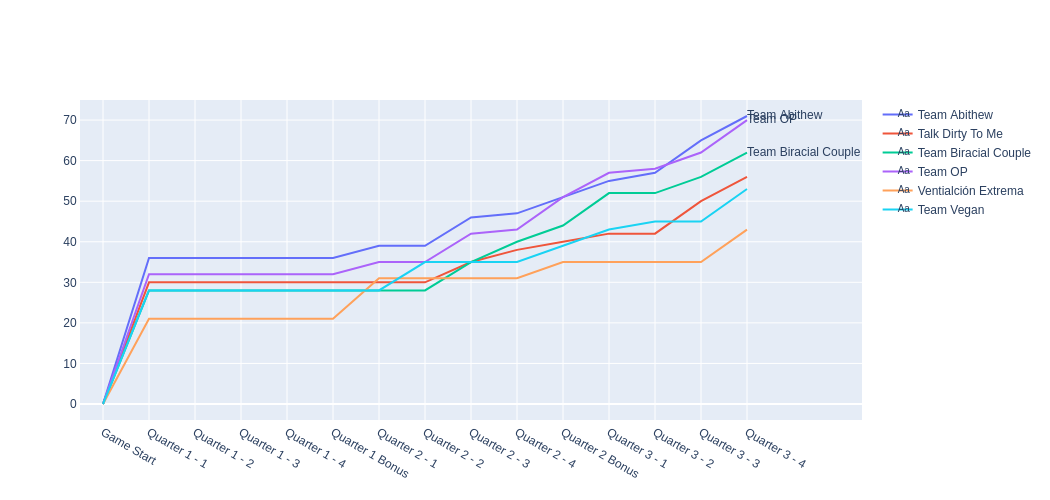
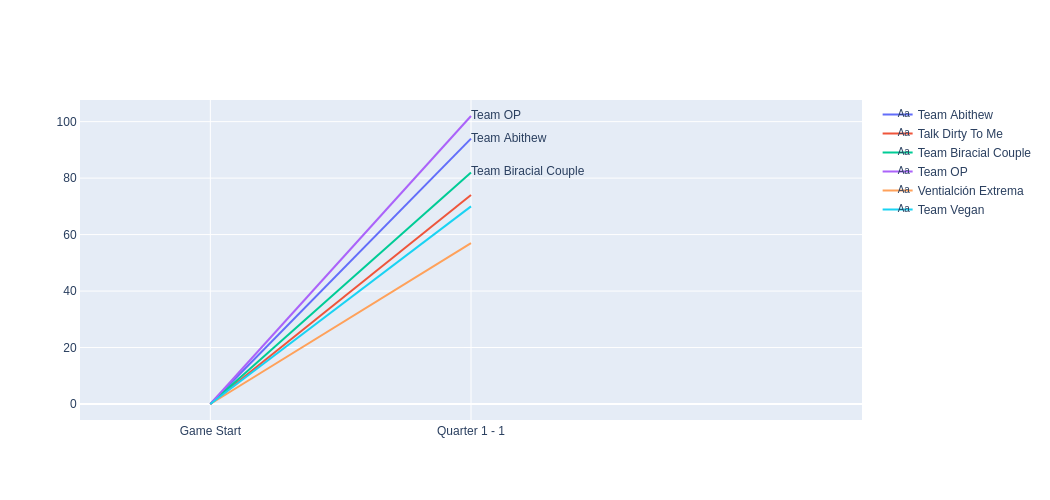
Live Edits

diff --git a/Trivia/Live_Tracker.html b/Trivia/Live_Tracker.html
@@ -13,7 +13,7 @@
         document.getElementById("title").innerHTML = "Trivia Live Scoring - " + m + "/" + d + "/" + y;
         </script>
         <div><img src = "img/fig1.png"></div>
-        <div>6 people (100%) got question 3-4 correct.</div>
+        <div>5 people (83%) got question 1-1 correct.</div>
         
         </body>
         </html>
